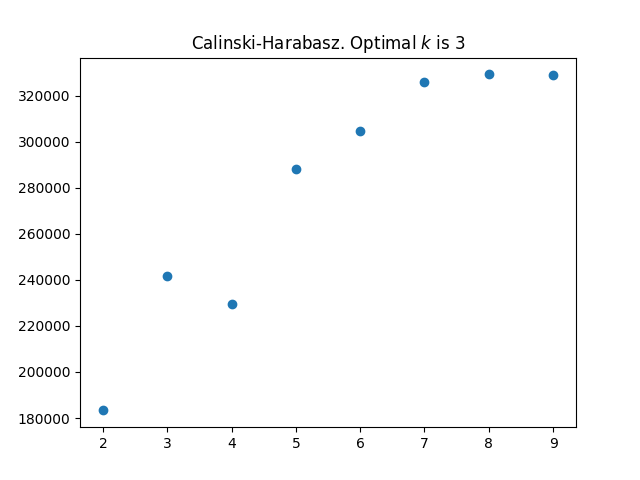
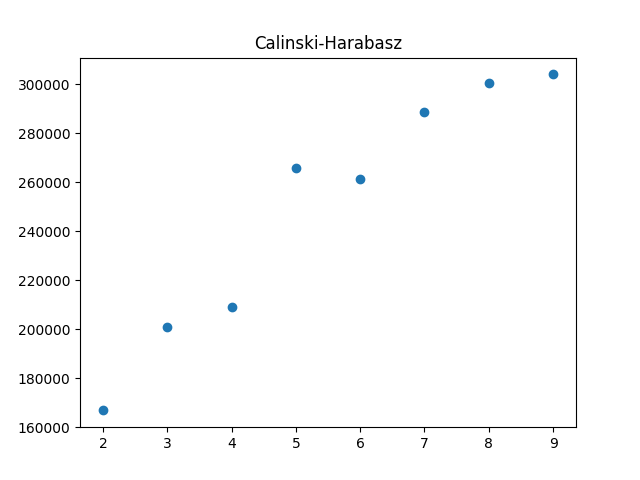
Remake

diff --git a/task4/validation/main.py b/task4/validation/main.py
@@ -1,124 +1,118 @@
 import numpy as np
 from PIL import Image
 import matplotlib.pyplot as plt
-
 import sys
 import os
 from copy import deepcopy
+from itertools import combinations
+from scipy.spatial.distance import euclidean
+
+def k_means(data, clusters_num, max_iterations=20):
+
+    def distance(x, y, axis=None): 
+        return np.linalg.norm(x - y, axis=axis)
+
+    data_size = data.shape[0]
+
+    random_subset_indicies = np.random.randint(low=0, high=data_size, size=clusters_num)
+    cluster_centers = data[random_subset_indicies, :]
+    cluster_by_item = np.zeros(data_size)
+    new_cluster_centers = np.zeros(cluster_centers.shape)
+             
+    still_change = True
+    iteration = 0
+    while still_change:
+        norms = np.zeros((data_size, clusters_num))
+        for cluster in range(clusters_num):
+            norms[:, cluster] = distance(data, cluster_centers[cluster], axis=1)
+        
+        cluster_by_item = np.argmin(norms, axis=1)
+        
+        for cluster in range(clusters_num):
+            cluster_items = [data[item] for item, _cluster in enumerate(cluster_by_item) if cluster == _cluster]
+            new_cluster_centers[cluster] = np.mean(cluster_items, axis=0)
+            
+        still_change = distance(cluster_centers, new_cluster_centers) != 0
+        cluster_centers = deepcopy(new_cluster_centers)
+        if iteration > max_iterations:
+            break
+        iteration += 1
+
+    return cluster_centers, cluster_by_item
 
 
-def k_means(points, k, iterations):
+def DaviesBouldin(data, cluster_centers, cluster_by_item):
+    n_clusters = len(set(cluster_by_item))
+    unique, counts = np.unique(cluster_by_item, return_counts=True)
+    cluster_counts = dict(zip(unique, counts))
 
-    n = points.shape[0]
-    centroids = points[np.random.randint(n, size=k),:]
+    s = np.array(
+        [sum(euclidean(item, cluster_centers[i]) for item in data[cluster_by_item == i]) / cluster_counts[i]
+            for i in range(n_clusters)]
+     )
 
-    new_centroids   = np.zeros(centroids.shape)
-    clusters        = np.zeros(n)
-    distances       = np.zeros((n, k))
+    db = 0
 
-    changed = True
-    while changed and iterations > 0:
-        for i in range(k):
-            distances[:, i] = np.linalg.norm(points - centroids[i], axis=1)
-
-        clusters = np.argmin(distances, axis=1)
-
-        for i in range(k):
-            new_centroids[i] = np.mean(points[clusters == i], axis=0)
-
-        changed = np.linalg.norm(centroids - new_centroids) != 0
-
-        centroids = deepcopy(new_centroids)
-        iterations -= 1
-
-    return centroids, clusters
-
-def DaviesBouldin(X, centroids, clusters):
-    n_cluster = len(centroids)
-    cluster_k = [X[clusters == k] for k in range(n_cluster)]
-    variances = [np.mean([np.linalg.norm(p - centroids[i]) for p in k]) for i, k in enumerate(cluster_k)]
-    db = []
-
-    for i in range(n_cluster):
-        for j in range(n_cluster):
+    for i in range(n_clusters):
+        max_r = -1
+        for j in range(n_clusters):
             if i != j:
-                db.append((variances[i] + variances[j]) / np.linalg.norm(centroids[i] - centroids[j]))
-
-    return np.max(db) / n_cluster
-
-
-def CHIndex(X, centroids, clusters):
-    k = len(centroids)
-    mean = np.mean(centroids, axis=0)
-    W = np.sum([(x - centroids[clusters[i]])**2 for i, x in enumerate(X)])
-    B = np.sum([len(X[clusters == i]) * (c - mean)**2 for i, c in enumerate(centroids)])
-    n = len(X)
-    return (n - k) * B / ((k - 1) * W)
+                d = euclidean(cluster_centers[i], cluster_centers[j])
+                new_r = (s[i] + s[j]) / d
+                max_r = new_r if new_r > max_r else max_r
+        db += max_r
+    return db / n_clusters
 
 
-def inner_criterias(X, k_range, iterations=300):
-    DB = dict()  # Davies-Bouldin
-    CH = dict()  # Calinski-Harabasz
-
-    for k in k_range:
-        if k < 2:
-            continue
-        centroids, clusters = k_means(X, k, iterations)
-        DB[k] = DaviesBouldin(X, centroids, clusters)
-        CH[k] = CHIndex(X, centroids, clusters)
-
-    ch_list = list(CH.items())
-
-    db_best = max(DB, key=DB.get)
-    ch_best = 0
-    delta = sys.maxsize
-    for k in range(1, len(CH) - 1):
-        temp = ch_list[k + 1][1] - 2 * ch_list[k][1] + ch_list[k - 1][1]
-        if temp < delta:
-            delta = temp
-            ch_best = ch_list[k][0]
-
-    return DB, db_best, CH, ch_best
+def CHIndex(data, cluster_centers, cluster_by_item):
+    n_samples, _ = data.shape
+    n_clusters = len(set(cluster_by_item))
+    unique, counts = np.unique(cluster_by_item, return_counts=True)
+    cluster_counts = dict(zip(unique, counts))
+    gloabal_mean = np.mean(data, axis=0)
+ 
+    b = sum(
+        cluster_counts[i] * np.sum((cluster_centers[i] - gloabal_mean) ** 2) for i in range(n_clusters)
+    )
+ 
+    w = sum(
+        np.sum((data[cluster_by_item == i] - cluster_centers[i]) ** 2)
+        for i in range(n_clusters)
+    )
+    return (n_samples - n_clusters) * b / ((n_clusters - 1) * w)
 
 
-def outer_criterias(X, k_range, reference, iterations=300):
-    n = len(X)
-    RS = dict()  # Rand Statistic
-    FM = dict()  # Fowlkes-Mallows
+def RandIndex(true, predicted):
+    n = len(true)
+    A = B = C = D = 0
+ 
+    for i, j in combinations(range(n), r=2):
+        A += 1 if true[i] == true[j] and predicted[i] == predicted[j] else 0
+        B += 1 if true[i] != true[j] and predicted[i] != predicted[j] else 0
+        C += 1 if true[i] != true[j] and predicted[i] == predicted[j] else 0
+        D += 1 if true[i] == true[j] and predicted[i] != predicted[j] else 0
+    return (A + B) / (A + B + C + D)
 
-    for k in k_range:
-        TP, FN, FP, TN = (0,)*4
-        if k < 2:
-            continue
 
-        _, clusters = k_means(X, k, iterations)
-        # Compute TP, FN, FP, TN.
-        for i in range(n):
-            for j in range(i + 1, n):
-                if clusters[i] == clusters[j] and reference[i] == reference[j]:
-                    TP += 1
-                elif clusters[i] != clusters[j] and reference[i] == reference[j]:
-                    FN += 1
-                elif clusters[i] == clusters[j] and reference[i] != reference[j]:
-                    FP += 1
-                else:
-                    TN += 1
-        RS[k] = (TP + TN) / n
-        precision = TP / (TP + FP)
-        recall = TP / (TP + FN)
-        FM[k] = np.sqrt(precision * recall)
+def FWIndex(true, predicted):
+    n = len(true)
+    TP = FP = TN = FN = 0
+ 
+    for i, j in combinations(range(n), r=2):
+        TP += 1 if true[i] == true[j] and predicted[i] == predicted[j] else 0
+        FP += 1 if true[i] == true[j] and predicted[i] != predicted[j] else 0
+        FN += 1 if true[i] != true[j] and predicted[i] == predicted[j] else 0
+        TN += 1 if true[i] != true[j] and predicted[i] != predicted[j] else 0
+    return np.sqrt((TP / (TP + FP)) * (TP / (TP + FN)))
 
-    best_rs = max(RS, key=RS.get)
-    best_fm = max(FM, key=FM.get)
 
-    return RS, best_rs, FM, best_fm
 
 def main():
     INPUT_DIR = '/homework/stochastic-course/task4/data' 
-    # INPUT_DIR = 'data' 
+    #INPUT_DIR = 'data' 
     
     RESULTS_DIR = '/homework/stochastic-course/task4/results'
-    # RESULTS_DIR = 'results'
+    #RESULTS_DIR = 'results'
     
     CLUSTERS_RANGE = range(2, 10)
     IMG_URL = os.path.join(INPUT_DIR, 'policemen.jpg')
@@ -126,53 +120,73 @@ def main():
 
     os.makedirs(RESULTS_DIR, exist_ok=True)
     
+    DB = dict() # Davies-Bouldin
+    CH = dict() # Calinski-Harabasz 
+    RI = dict() # Rand index 
+    FW = dict() # Fowlkes-Mallows
+
+    x_axes = list(CLUSTERS_RANGE)
 
     print('RUNNING...')
     
 
-    # Inner criterias' block.
-    image = np.array(Image.open(IMG_URL), dtype=np.uint8)
-    new_image = image.reshape(image.shape[0] * image.shape[1], image.shape[2])
-    db, best_db, ch, best_ch = inner_criterias(new_image, CLUSTERS_RANGE)
-    best_inner = (best_db + best_ch) // 2
+    image = np.array(Image.open(IMG_URL))
+    data = image.reshape(image.shape[0] * image.shape[1], image.shape[2])  
 
+    print("Evaluating of Davies-Bouldin and Calinski-Harabasz")
+    for k in CLUSTERS_RANGE:
+        if k < 2: continue
+        cluster_centers, cluster_by_item = k_means(data, k)
+        DB[k] = DaviesBouldin(data, cluster_centers, cluster_by_item) # Davies-Bouldin
+        CH[k] = CHIndex(data, cluster_centers, cluster_by_item) # Calinski-Harabasz
+        
 
-    # Save the clustered image.
-    centroids, clusters = k_means(new_image, best_inner, iterations=300)
-    compressed_img_url = os.path.join(RESULTS_DIR, '{}_clusters_policemen.jpg'.format(best_inner)) 
-    compressed_img = np.vstack([centroids[i] for i in clusters]).astype(np.uint8).reshape(image.shape)
-    Image.fromarray(compressed_img).save(compressed_img_url)
-
-
-    # Outer criterias' block.
-    data = np.loadtxt(DATA_URL, delimiter=' ')
-    reference, points = data[:, 0], data[:, 1:]
-    rs, best_rs, fm, best_fm = outer_criterias(points, CLUSTERS_RANGE, reference)
-
-    
-    x_axes = list(CLUSTERS_RANGE)
-
+    print("Saving plots...")
     _, ax = plt.subplots(1, 1)
-    ax.scatter(x=x_axes, y=list(db.values()))
-    ax.set_title('Davies-Bouldin. Optimal $k$ is %d' % best_db)
+    ax.scatter(x=x_axes, y=list(DB.values()))
+    ax.set_title("Davies-Bouldin")
     plt.savefig(os.path.join(RESULTS_DIR, "Davies_Bouldin.png"))
 
     _, ax = plt.subplots(1, 1)
-    ax.scatter(x=x_axes, y=list(ch.values()))
-    ax.set_title('Calinski-Harabasz. Optimal $k$ is %d' % best_ch)
+    ax.scatter(x=x_axes, y=list(CH.values()))
+    ax.set_title("Calinski-Harabasz")
     plt.savefig(os.path.join(RESULTS_DIR, "Calinski_Harabasz.png"))
 
+
+    # Save policeman
+    best_score = int(input("clusters> "))
+    print("Saving the image...")
+    centroids, clusters = k_means(data, best_score)
+    compressed_img_url = os.path.join(RESULTS_DIR, '{}_clusters_policemen.jpg'.format(best_score)) 
+    compressed_img = np.vstack([centroids[i] for i in clusters]).astype(np.uint8).reshape(image.shape)
+    Image.fromarray(compressed_img).save(compressed_img_url)
+    print("Successfully saved!")
+
+
+    data = np.loadtxt(DATA_URL, delimiter=' ')
+    labels, points = data[:, 0], data[:, 1:]
+     
+    print("Evaluating of Rand index and Fowlkes-Mallows")
+    for k in CLUSTERS_RANGE:
+        if k < 2: continue
+        _, cluster_by_item = k_means(points, k)
+        RI[k] = RandIndex(labels, cluster_by_item) # Rand index
+        FW[k] = FWIndex(labels, cluster_by_item) # Fowlkes-Mallows
+
+
+    print("Saving plots...")
     _, ax = plt.subplots(1, 1)
-    ax.scatter(x=x_axes, y=list(rs.values()))
-    ax.set_title('Rand Statistic. Optimal $k$ is %d' % best_rs)
-    plt.savefig(os.path.join(RESULTS_DIR, "Rand_Statistic.png"))\
+    ax.scatter(x=x_axes, y=list(RI.values()))
+    ax.set_title("Rand index")
+    plt.savefig(os.path.join(RESULTS_DIR, "Rand_Index.png"))\
 
     _, ax = plt.subplots(1, 1)
-    ax.scatter(x=x_axes, y=list(fm.values()))
-    ax.set_title('Fowlkes-Mallows. Optimal $k$ is %d' % best_fm)
+    ax.scatter(x=x_axes, y=list(FW.values()))
+    ax.set_title("Fowlkes-Mallows")
     plt.savefig(os.path.join(RESULTS_DIR, "Fowlkes_Mallows.png"))
 
     print('DONE!')
+
 
 if __name__ == '__main__':
     main()
